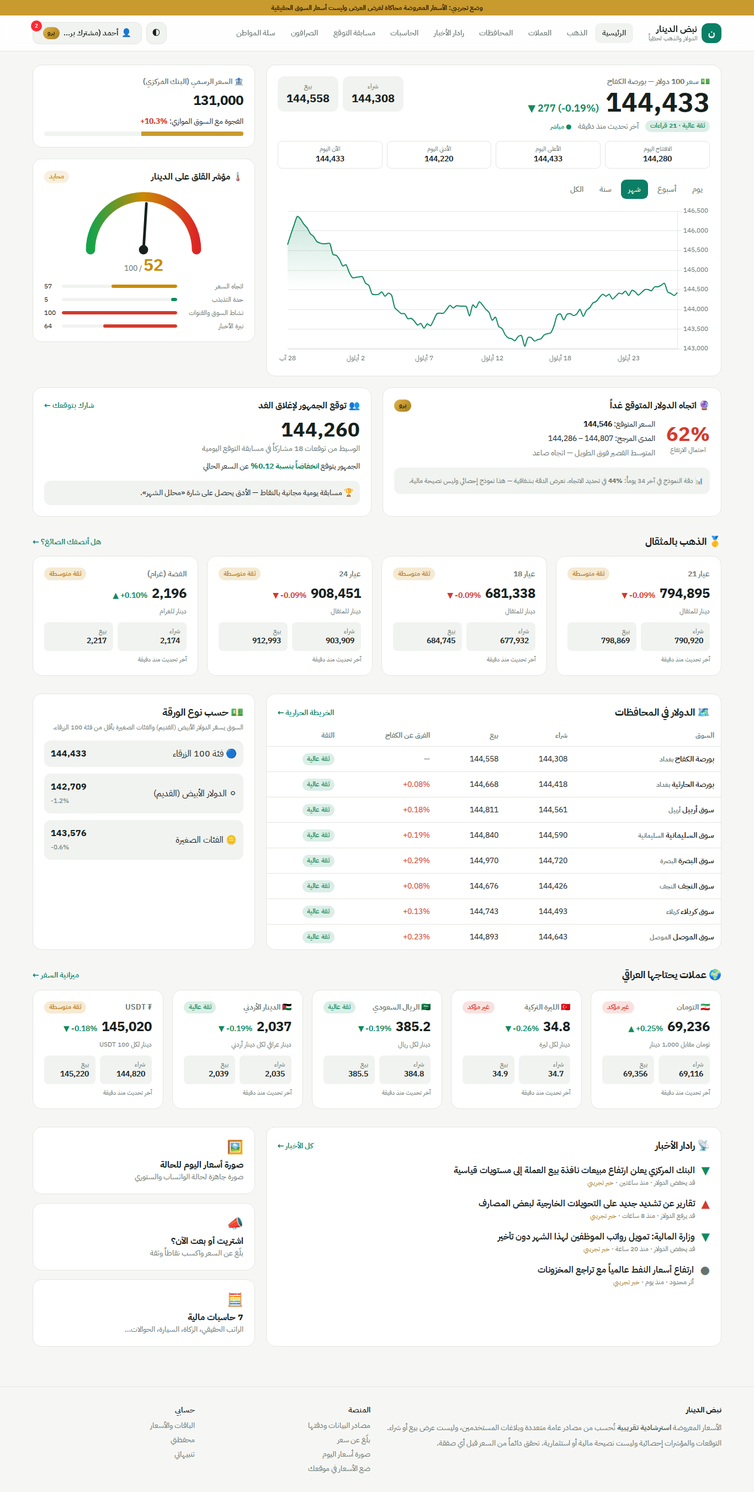
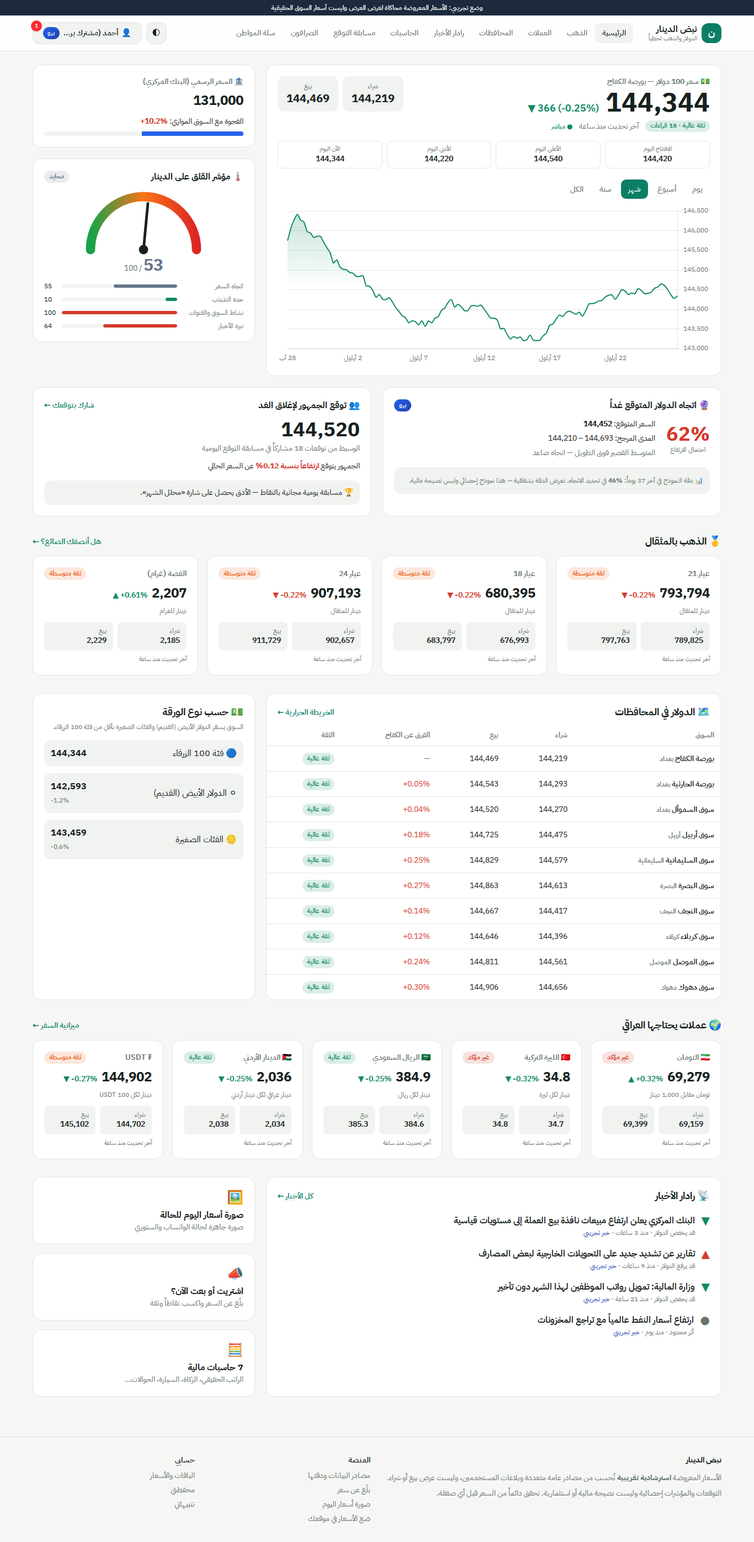
Replace gold accent with blue across the UI
Premium badges, subscribe buttons and highlights now use a blue accent;
the demo banner is neutral slate, 'medium' confidence is orange, and the
share image uses white on the brand green. Screenshots refreshed.

Claude-Session: https://claude.ai/code/session_01GZ9oJbNU8Hwp22QXUjEhZ2

diff --git a/resources/css/app.css b/resources/css/app.css
@@ -14,9 +14,9 @@
     --color-brand-600: #0b7f66;
     --color-brand-700: #0a6653;
     --color-brand-900: #063d33;
-    --color-gold-400: #e2b54a;
-    --color-gold-500: #c99a2e;
-    --color-gold-600: #a67c1c;
+    --color-accent-400: #60a5fa;
+    --color-accent-500: #2563eb;
+    --color-accent-600: #1e40af;
 }
 
 @layer base {
@@ -61,8 +61,8 @@
     .btn { display: inline-flex; align-items: center; justify-content: center; gap: .4rem; border-radius: .75rem; padding: .6rem 1.1rem; font-weight: 600; font-size: .9rem; transition: all .15s; cursor: pointer; }
     .btn-primary { background: var(--color-brand-600); color: white; }
     .btn-primary:hover { background: var(--color-brand-700); }
-    .btn-gold { background: var(--color-gold-500); color: #1b1405; }
-    .btn-gold:hover { background: var(--color-gold-400); }
+    .btn-accent { background: var(--color-accent-500); color: #fff; }
+    .btn-accent:hover { background: var(--color-accent-600); }
     .btn-ghost { background: var(--surface-2); color: var(--text); border: 1px solid var(--border); }
     .btn-ghost:hover { border-color: var(--color-brand-500); }
     .input { width: 100%; background: var(--surface); border: 1px solid var(--border); border-radius: .75rem; padding: .6rem .8rem; color: var(--text); }
@@ -70,9 +70,9 @@
     .label { display: block; font-size: .85rem; font-weight: 600; margin-bottom: .35rem; color: var(--muted); }
     .badge { display: inline-flex; align-items: center; gap: .25rem; font-size: .72rem; font-weight: 600; padding: .15rem .55rem; border-radius: 999px; }
     .badge-high { background: color-mix(in srgb, var(--up) 15%, transparent); color: var(--up); }
-    .badge-medium { background: color-mix(in srgb, #ca8a04 18%, transparent); color: #b7791f; }
+    .badge-medium { background: color-mix(in srgb, #ea580c 14%, transparent); color: #ea580c; }
     .badge-low { background: color-mix(in srgb, var(--down) 15%, transparent); color: var(--down); }
-    .badge-pro { background: linear-gradient(135deg, var(--color-gold-400), var(--color-gold-600)); color: #1b1405; }
+    .badge-pro { background: linear-gradient(135deg, var(--color-accent-500), var(--color-accent-600)); color: #fff; }
     .nav-link { padding: .45rem .8rem; border-radius: .6rem; font-size: .9rem; font-weight: 500; color: var(--muted); white-space: nowrap; }
     .nav-link:hover, .nav-link.active { color: var(--text); background: var(--surface-2); }
     .section-title { font-size: 1.15rem; font-weight: 700; }
@@ -82,5 +82,5 @@
     .table td { padding: .7rem .75rem; border-bottom: 1px solid var(--border); }
     .table tr:last-child td { border-bottom: 0; }
     .flash-pulse { animation: flash 1.2s ease-out; }
-    @keyframes flash { from { background: color-mix(in srgb, var(--color-gold-400) 35%, transparent); } to { background: transparent; } }
+    @keyframes flash { from { background: color-mix(in srgb, var(--color-accent-400) 30%, transparent); } to { background: transparent; } }
 }

diff --git a/resources/js/app.js b/resources/js/app.js
@@ -97,7 +97,7 @@ document.querySelectorAll('[data-price-chart]').forEach(initPriceChart);
 /* رسوم ثابتة: البيانات مضمّنة في الصفحة */
 function initStaticChart(el) {
     const cfg = JSON.parse(el.dataset.staticChart);
-    const colors = { brand: '#0f9f7f', gold: '#c99a2e', down: css('--down'), up: css('--up'), muted: css('--muted') };
+    const colors = { brand: '#0f9f7f', gold: '#2563eb', down: css('--down'), up: css('--up'), muted: css('--muted') };
     const datasets = cfg.datasets.map((ds) => ({
         borderWidth: 2, pointRadius: 0, tension: 0.3, ...ds,
         borderColor: colors[ds.color] || ds.color || colors.brand,

diff --git a/resources/views/pages/home.blade.php b/resources/views/pages/home.blade.php
@@ -26,7 +26,7 @@
                             <span class="badge badge-{{ $usd['snapshot']->confidence }}">{{ $usd['snapshot']->confidenceLabel() }} · {{ $usd['snapshot']->sample_count }} قراءات</span>
                             <span class="text-muted">آخر تحديث {{ $usd['snapshot']->computed_at->diffForHumans() }}</span>
                             @if ($delayed)
-                                <a href="{{ route('pricing') }}" class="text-xs font-semibold text-gold-600 hover:underline">⏱ متأخر 15 دقيقة — اللحظي في برو</a>
+                                <a href="{{ route('pricing') }}" class="text-xs font-semibold text-accent-600 hover:underline">⏱ متأخر 15 دقيقة — اللحظي في برو</a>
                             @else
                                 <span class="text-xs font-semibold text-up">● مباشر</span>
                             @endif
@@ -59,7 +59,7 @@
                         <div class="card card-pad text-center shadow-lg">
                             <div class="font-bold mb-1">💎 التاريخ الكامل للمشتركين</div>
                             <div class="text-sm text-muted mb-3">المجاني يعرض آخر 30 يوماً</div>
-                            <a href="{{ route('pricing') }}" class="btn btn-gold">اشترك في برو</a>
+                            <a href="{{ route('pricing') }}" class="btn btn-accent">اشترك في برو</a>
                         </div>
                     </div>
                 </div>
@@ -76,7 +76,7 @@
                     </div>
                     <div class="num text-2xl font-bold">{{ money($cbi['snapshot']->mid) }}</div>
                     <div class="mt-3 text-sm">الفجوة مع السوق الموازي: <b class="num text-down">{{ pct($gap, 1) }}</b></div>
-                    <div class="h-2 rounded-full surface-2 mt-2 overflow-hidden"><div class="h-full bg-gold-500" style="width: {{ min(100, $gap * 5) }}%"></div></div>
+                    <div class="h-2 rounded-full surface-2 mt-2 overflow-hidden"><div class="h-full bg-accent-500" style="width: {{ min(100, $gap * 5) }}%"></div></div>
                 </div>
             @endif
 
@@ -92,7 +92,7 @@
                     @foreach ($fear['components'] as $c)
                         <div class="flex items-center gap-2">
                             <span class="w-28 text-muted">{{ $c['label'] }}</span>
-                            <div class="flex-1 h-1.5 rounded-full surface-2 overflow-hidden"><div class="h-full rounded-full" style="width: {{ $c['value'] }}%; background: {{ $c['value'] > 60 ? 'var(--down)' : ($c['value'] < 40 ? 'var(--up)' : '#ca8a04') }}"></div></div>
+                            <div class="flex-1 h-1.5 rounded-full surface-2 overflow-hidden"><div class="h-full rounded-full" style="width: {{ $c['value'] }}%; background: {{ $c['value'] > 60 ? 'var(--down)' : ($c['value'] < 40 ? 'var(--up)' : '#64748b') }}"></div></div>
                             <span class="num w-6 text-left">{{ $c['value'] }}</span>
                         </div>
                     @endforeach
@@ -233,7 +233,7 @@
                         <span class="text-xl {{ $item->impactClass() }}">{{ $item->impactIcon() }}</span>
                         <div>
                             <div class="font-semibold leading-7">{{ $item->title }}</div>
-                            <div class="text-xs text-muted">{{ $item->impactLabel() }} · {{ $item->published_at->diffForHumans() }} @if ($item->is_demo)· <span class="text-gold-600">خبر تجريبي</span>@endif</div>
+                            <div class="text-xs text-muted">{{ $item->impactLabel() }} · {{ $item->published_at->diffForHumans() }} @if ($item->is_demo)· <span class="text-accent-600">خبر تجريبي</span>@endif</div>
                         </div>
                     </div>
                 @endforeach

diff --git a/resources/views/pages/gold.blade.php b/resources/views/pages/gold.blade.php
@@ -4,7 +4,7 @@
             <h1 class="text-2xl font-bold">🥇 سعر الذهب في العراق</h1>
             <p class="text-muted text-sm mt-1">محسوب من سعر الأونصة العالمي وسعر الدولار في السوق الموازي. الأسعار للذهب الخام بدون أجور الصياغة.</p>
         </div>
-        @if ($delayed)<a href="{{ route('pricing') }}" class="text-xs font-semibold text-gold-600">⏱ متأخر 15 دقيقة — اللحظي في برو</a>@endif
+        @if ($delayed)<a href="{{ route('pricing') }}" class="text-xs font-semibold text-accent-600">⏱ متأخر 15 دقيقة — اللحظي في برو</a>@endif
     </div>
 
     <div class="grid gap-4 grid-cols-2 lg:grid-cols-4">
@@ -15,17 +15,17 @@
 
     <div class="grid gap-5 lg:grid-cols-5 mt-5">
         <div class="lg:col-span-3 card overflow-hidden">
-            <div data-price-chart data-code="gold21" data-range="30d" data-color="#c99a2e" class="card-pad">
+            <div data-price-chart data-code="gold21" data-range="30d" data-color="#2563eb" class="card-pad">
                 <div class="flex justify-between items-center mb-3">
                     <h2 class="section-title">مثقال عيار 21</h2>
                     <div class="flex gap-1 text-sm">
                         @foreach (\App\Services\Pricing\PriceService::RANGES as $key => $r)
-                            <button data-range="{{ $key }}" class="nav-link [&.active]:bg-gold-500 [&.active]:text-[#1b1405]">{{ $r['label'] }}</button>
+                            <button data-range="{{ $key }}" class="nav-link [&.active]:bg-accent-500 [&.active]:text-white">{{ $r['label'] }}</button>
                         @endforeach
                     </div>
                 </div>
                 <div class="relative h-64"><canvas></canvas>
-                    <div data-chart-lock class="hidden absolute inset-0 grid place-items-center"><a href="{{ route('pricing') }}" class="btn btn-gold">💎 التاريخ الكامل في برو</a></div>
+                    <div data-chart-lock class="hidden absolute inset-0 grid place-items-center"><a href="{{ route('pricing') }}" class="btn btn-accent">💎 التاريخ الكامل في برو</a></div>
                 </div>
             </div>
         </div>
@@ -71,7 +71,7 @@
             </form>
 
             @if ($check)
-                @php($tone = ['good' => 'var(--up)', 'warn' => '#ca8a04', 'bad' => 'var(--down)'][$check['tone']])
+                @php($tone = ['good' => 'var(--up)', 'warn' => '#64748b', 'bad' => 'var(--down)'][$check['tone']])
                 <div class="mt-5 rounded-xl p-4" style="border: 2px solid {{ $tone }}; background: color-mix(in srgb, {{ $tone }} 8%, transparent)">
                     <div class="text-lg font-bold" style="color: {{ $tone }}">{{ $check['verdict'] }}</div>
                     <div class="grid grid-cols-2 gap-2 text-sm mt-3">

diff --git a/resources/views/pages/share.blade.php b/resources/views/pages/share.blade.php
@@ -3,7 +3,7 @@
         <div>
             <h1 class="text-2xl font-bold">🖼 صورة أسعار اليوم</h1>
             <p class="text-muted mt-2 leading-7">صورة جاهزة بمقاس الحالة والستوري (9:16). حمّلها وانشرها على الواتساب أو إنستغرام — كل مشاركة تعرّف الناس بالمنصة.</p>
-            <button data-download-card="share-card" class="btn btn-gold mt-5 text-base">⬇ تحميل الصورة</button>
+            <button data-download-card="share-card" class="btn btn-accent mt-5 text-base">⬇ تحميل الصورة</button>
             <div class="card card-pad mt-6 text-sm text-muted leading-7">
                 💡 تتحدّث الصورة تلقائياً بآخر الأسعار في كل مرة تفتح فيها هذه الصفحة.
             </div>
@@ -11,9 +11,9 @@
 
         <div class="mx-auto">
             <div id="share-card" dir="rtl" style="width: 360px; height: 640px; font-family: 'IBM Plex Sans Arabic', sans-serif; background: linear-gradient(160deg, #063d33 0%, #0b7f66 55%, #0f9f7f 100%); color: #fff; border-radius: 24px; padding: 28px 24px; position: relative; overflow: hidden;">
-                <div style="position:absolute; top:-80px; left:-60px; width:220px; height:220px; border-radius:50%; background: rgba(226,181,74,.18)"></div>
+                <div style="position:absolute; top:-80px; left:-60px; width:220px; height:220px; border-radius:50%; background: rgba(255,255,255,.07)"></div>
                 <div style="display:flex; align-items:center; gap:10px; position:relative">
-                    <div style="width:40px; height:40px; border-radius:12px; background:#e2b54a; color:#1b1405; display:grid; place-items:center; font-weight:800; font-size:22px">ن</div>
+                    <div style="width:40px; height:40px; border-radius:12px; background:#fff; color:#0b7f66; display:grid; place-items:center; font-weight:800; font-size:22px">ن</div>
                     <div><div style="font-weight:800; font-size:18px">نبض الدينار</div><div style="font-size:12px; opacity:.8">{{ now()->translatedFormat('l j F Y') }}</div></div>
                 </div>
 
@@ -38,7 +38,7 @@
                     @endforeach
                 </div>
 
-                <div style="margin-top:14px; background: rgba(226,181,74,.18); border:1px solid rgba(226,181,74,.5); border-radius:18px; padding:14px 16px">
+                <div style="margin-top:14px; background: rgba(255,255,255,.12); border:1px solid rgba(255,255,255,.3); border-radius:18px; padding:14px 16px">
                     <div style="font-size:13px; opacity:.9">🥇 الذهب (مثقال)</div>
                     <div style="display:flex; justify-content:space-between; margin-top:6px">
                         @foreach (['gold21' => 'عيار 21', 'gold24' => 'عيار 24'] as $code => $label)

diff --git a/resources/views/pages/pricing.blade.php b/resources/views/pages/pricing.blade.php
@@ -23,7 +23,7 @@
     <div class="grid gap-5 md:grid-cols-3 max-w-5xl mx-auto">
         @foreach (['free', 'pro', 'trader'] as $i => $key)
             @php($plan = $plans[$key])
-            <div class="card card-pad flex flex-col {{ $key === 'pro' ? 'ring-2 ring-gold-500 relative' : '' }}">
+            <div class="card card-pad flex flex-col {{ $key === 'pro' ? 'ring-2 ring-accent-500 relative' : '' }}">
                 @if ($key === 'pro')<span class="badge badge-pro absolute -top-3 right-5">الأكثر طلباً</span>@endif
                 <div class="text-lg font-bold">{{ ['free' => '🆓', 'pro' => '⭐', 'trader' => '💼'][$key] }} {{ $plan['name'] }}</div>
                 <div class="mt-3 mb-5"><span class="num text-4xl font-bold">{{ money($plan['price']) }}</span> <span class="text-muted text-sm">دينار / شهر</span></div>
@@ -36,7 +36,7 @@
                 @if ($key === 'free')
                     <a href="{{ route('register') }}" class="btn btn-ghost mt-6">ابدأ مجاناً</a>
                 @else
-                    <a href="#subscribe" onclick="document.getElementById('plan-select').value='{{ $key }}'" class="btn {{ $key === 'pro' ? 'btn-gold' : 'btn-primary' }} mt-6">اشترك في {{ $plan['name'] }}</a>
+                    <a href="#subscribe" onclick="document.getElementById('plan-select').value='{{ $key }}'" class="btn {{ $key === 'pro' ? 'btn-accent' : 'btn-primary' }} mt-6">اشترك في {{ $plan['name'] }}</a>
                 @endif
             </div>
         @endforeach
@@ -56,7 +56,7 @@
                 <div><label class="label">المدة</label><select name="months" class="input">@foreach ([1 => 'شهر', 3 => '3 أشهر', 6 => '6 أشهر', 12 => 'سنة'] as $m => $l)<option value="{{ $m }}">{{ $l }}</option>@endforeach</select></div>
                 <div><label class="label">طريقة الدفع</label><select name="payment_method" class="input">@foreach ($methods as $k => $l)<option value="{{ $k }}">{{ $l }}</option>@endforeach</select></div>
                 <div><label class="label">رقم العملية / الوصل</label><input name="reference" class="input" required></div>
-                <button class="btn btn-gold sm:col-span-2">إرسال طلب الاشتراك</button>
+                <button class="btn btn-accent sm:col-span-2">إرسال طلب الاشتراك</button>
             </form>
         @else
             <a href="{{ route('register') }}" class="btn btn-primary mt-4">أنشئ حساباً أولاً</a>

diff --git a/resources/views/pages/predict.blade.php b/resources/views/pages/predict.blade.php
@@ -1,7 +1,7 @@
 <x-layouts.app title="مسابقة التوقع">
     <div class="grid gap-5 lg:grid-cols-3">
         <div class="lg:col-span-2 flex flex-col gap-5">
-            <div class="card card-pad" style="background: linear-gradient(135deg, color-mix(in srgb, var(--color-gold-400) 16%, var(--surface)), var(--surface))">
+            <div class="card card-pad" style="background: linear-gradient(135deg, color-mix(in srgb, var(--color-accent-400) 16%, var(--surface)), var(--surface))">
                 <h1 class="text-2xl font-bold">🎯 مسابقة التوقع اليومية</h1>
                 <p class="text-muted mt-2 leading-7">كم سيكون سعر إغلاق 100 دولار في بورصة الكفاح يوم <b>{{ $tomorrow->translatedFormat('l j F') }}</b>؟ مجانية بالكامل — بالنقاط فقط، بلا أي مبالغ مالية.</p>
                 <div class="grid sm:grid-cols-3 gap-3 mt-4 text-center">
@@ -13,10 +13,10 @@
                     <form method="POST" action="{{ route('predict') }}" class="flex gap-2 mt-5">
                         @csrf
                         <input name="predicted" type="number" class="input num text-lg" placeholder="مثال: {{ $current ? round($current->mid, -1) : 145000 }}" value="{{ $myTomorrow?->predicted ? round($myTomorrow->predicted) : '' }}" required>
-                        <button class="btn btn-gold shrink-0">{{ $myTomorrow ? 'تعديل توقعي' : 'سجّل توقعي' }}</button>
+                        <button class="btn btn-accent shrink-0">{{ $myTomorrow ? 'تعديل توقعي' : 'سجّل توقعي' }}</button>
                     </form>
                 @else
-                    <a href="{{ route('login') }}" class="btn btn-gold mt-5">سجّل الدخول للمشاركة</a>
+                    <a href="{{ route('login') }}" class="btn btn-accent mt-5">سجّل الدخول للمشاركة</a>
                 @endauth
                 <p class="text-xs text-muted mt-3">النقاط = 100 − (نسبة الخطأ × 100). التوقع المطابق تماماً = 100 نقطة، والخطأ 1% = صفر.</p>
             </div>

diff --git a/resources/views/pages/places.blade.php b/resources/views/pages/places.blade.php
@@ -18,13 +18,13 @@ $chartData4 = $places->map(fn ($p) => ["name" => $p->name, "lat" => $p->lat, "ln
         </div>
         <div class="lg:col-span-2 space-y-3 max-h-[440px] overflow-y-auto">
             @foreach ($places as $place)
-                <div class="card card-pad !py-3 {{ $place->isFeatured() ? 'ring-1 ring-gold-500' : '' }}">
+                <div class="card card-pad !py-3 {{ $place->isFeatured() ? 'ring-1 ring-accent-500' : '' }}">
                     <div class="flex justify-between items-start gap-2">
                         <div>
                             <div class="font-bold">{{ $place->type === 'gold' ? '🥇' : '💱' }} {{ $place->name }} @if ($place->isFeatured())<span class="badge badge-pro">مميّز</span>@endif</div>
                             <div class="text-xs text-muted mt-0.5">{{ $place->city?->market_ar }} · {{ $place->address }}</div>
                         </div>
-                        <div class="text-left shrink-0"><div class="font-bold text-gold-600">★ <span class="num">{{ number_format($place->rating_avg, 1) }}</span></div><div class="text-[11px] text-muted">{{ $place->rating_count }} تقييم</div></div>
+                        <div class="text-left shrink-0"><div class="font-bold text-accent-600">★ <span class="num">{{ number_format($place->rating_avg, 1) }}</span></div><div class="text-[11px] text-muted">{{ $place->rating_count }} تقييم</div></div>
                     </div>
                     @auth
                         <form method="POST" action="{{ route('places.review', $place) }}" class="flex gap-1 mt-2 items-center text-sm">

diff --git a/resources/views/pages/display.blade.php b/resources/views/pages/display.blade.php
@@ -13,7 +13,7 @@
             <div class="text-muted text-lg mt-1">أسعار اليوم · {{ now()->translatedFormat('l j F') }}</div>
         </div>
         <div class="text-left">
-            <div class="num text-5xl font-bold text-gold-400" data-live-clock>{{ now()->format('H:i:s') }}</div>
+            <div class="num text-5xl font-bold text-accent-400" data-live-clock>{{ now()->format('H:i:s') }}</div>
             <div class="text-muted">يتحدث تلقائياً</div>
         </div>
     </div>
@@ -34,7 +34,7 @@
     <div class="grid grid-cols-3 gap-6 mb-6">
         @foreach (['gold24' => 'ذهب عيار 24', 'gold21' => 'ذهب عيار 21', 'gold18' => 'ذهب عيار 18'] as $code => $label)
             @if ($quotes[$code])
-                <div class="card p-6 text-center" style="border-color: #c99a2e66"><div class="text-xl text-gold-400">🥇 {{ $label }} (مثقال)</div><div class="num text-5xl font-bold mt-2" data-live="{{ $code }}">{{ money($quotes[$code]['snapshot']->mid) }}</div></div>
+                <div class="card p-6 text-center" style="border-color: #2563eb66"><div class="text-xl text-accent-400">🥇 {{ $label }} (مثقال)</div><div class="num text-5xl font-bold mt-2" data-live="{{ $code }}">{{ money($quotes[$code]['snapshot']->mid) }}</div></div>
             @endif
         @endforeach
     </div>

diff --git a/resources/views/account/show.blade.php b/resources/views/account/show.blade.php
@@ -10,7 +10,7 @@
             <div class="text-2xl font-bold mt-1">{{ $user->planName() }} @if ($user->hasPlan('pro'))<span class="badge badge-pro">💎</span>@endif</div>
             @if ($user->plan_expires_at && $user->hasPlan('pro'))<div class="text-sm text-muted mt-1">تنتهي {{ $user->plan_expires_at->translatedFormat('j F Y') }} ({{ $user->plan_expires_at->diffForHumans() }})</div>@endif
             @if ($pending)<div class="mt-3 badge badge-medium">طلب اشتراك {{ config('dinar.plans.'.$pending->plan.'.name') }} قيد المراجعة</div>@endif
-            <a href="{{ route('pricing') }}" class="btn btn-gold w-full mt-4">{{ $user->hasPlan('pro') ? 'تجديد / ترقية' : 'اشترك الآن' }}</a>
+            <a href="{{ route('pricing') }}" class="btn btn-accent w-full mt-4">{{ $user->hasPlan('pro') ? 'تجديد / ترقية' : 'اشترك الآن' }}</a>
             <div class="grid grid-cols-2 gap-2 mt-4 text-center">
                 <div class="surface-2 rounded-xl p-2"><div class="text-xs text-muted">النقاط</div><div class="num font-bold">{{ money($user->points) }}</div></div>
                 <div class="surface-2 rounded-xl p-2"><div class="text-xs text-muted">الثقة</div><div class="num font-bold">{{ round($user->trust_score * 100) }}%</div></div>

diff --git a/resources/views/components/layouts/app.blade.php b/resources/views/components/layouts/app.blade.php
@@ -21,7 +21,7 @@
 <body class="min-h-screen antialiased" data-refresh="30000">
 @php($demo = \App\Models\Setting::get('demo_mode'))
 @if ($demo)
-    <div class="bg-gold-500 text-[#1b1405] text-center text-xs font-semibold py-1.5 px-4">
+    <div class="bg-slate-800 text-white text-center text-xs font-semibold py-1.5 px-4">
         وضع تجريبي: الأسعار المعروضة محاكاة لغرض العرض وليست أسعار السوق الحقيقية
     </div>
 @endif
@@ -56,7 +56,7 @@
                 </a>
             @else
                 <a href="{{ route('login') }}" class="btn btn-ghost !py-2">دخول</a>
-                <a href="{{ route('pricing') }}" class="btn btn-gold !py-2 hidden sm:inline-flex">💎 اشترك</a>
+                <a href="{{ route('pricing') }}" class="btn btn-accent !py-2 hidden sm:inline-flex">💎 اشترك</a>
             @endauth
             <button data-menu-toggle class="btn btn-ghost !px-2.5 !py-2 lg:hidden" aria-label="القائمة">☰</button>
         </div>

diff --git a/resources/views/components/gauge.blade.php b/resources/views/components/gauge.blade.php
@@ -8,7 +8,7 @@
 <svg viewBox="0 0 200 112" class="w-full max-w-[240px] mx-auto" role="img" aria-label="المؤشر {{ $value }} — {{ $label }}">
     <defs>
         <linearGradient id="gauge-grad" x1="0" x2="1" y1="0" y2="0">
-            <stop offset="0%" stop-color="#16a34a"/><stop offset="50%" stop-color="#ca8a04"/><stop offset="100%" stop-color="#dc2626"/>
+            <stop offset="0%" stop-color="#16a34a"/><stop offset="50%" stop-color="#f97316"/><stop offset="100%" stop-color="#dc2626"/>
         </linearGradient>
     </defs>
     <path d="M 20 100 A 80 80 0 0 1 180 100" fill="none" stroke="url(#gauge-grad)" stroke-width="14" stroke-linecap="round"/>
